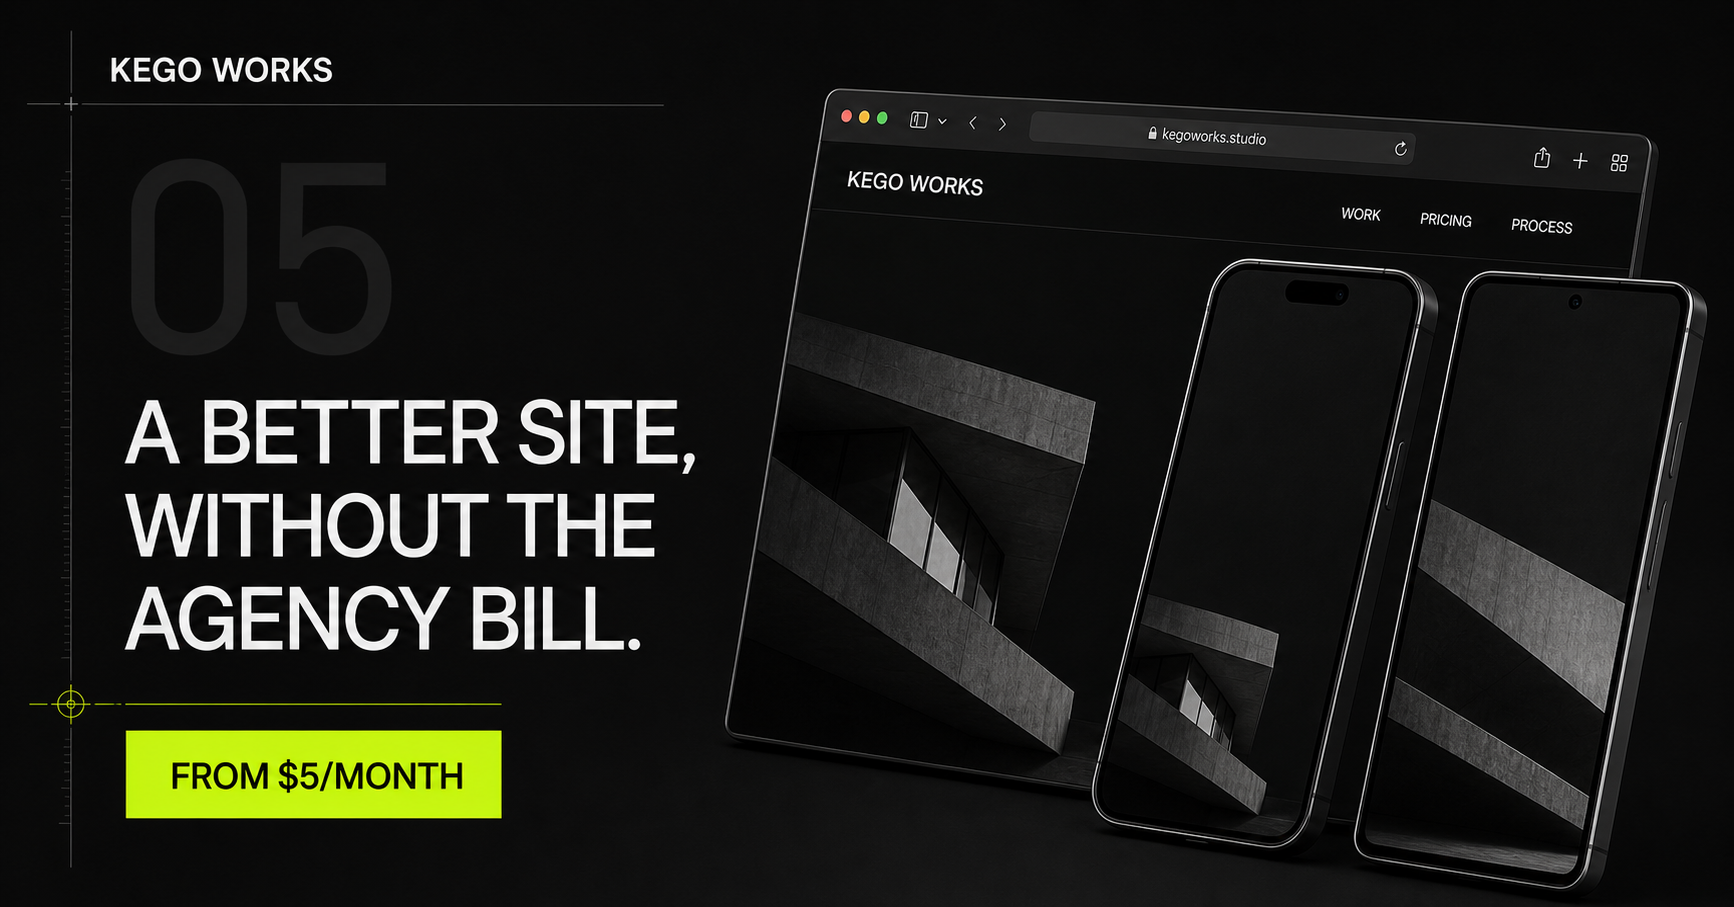
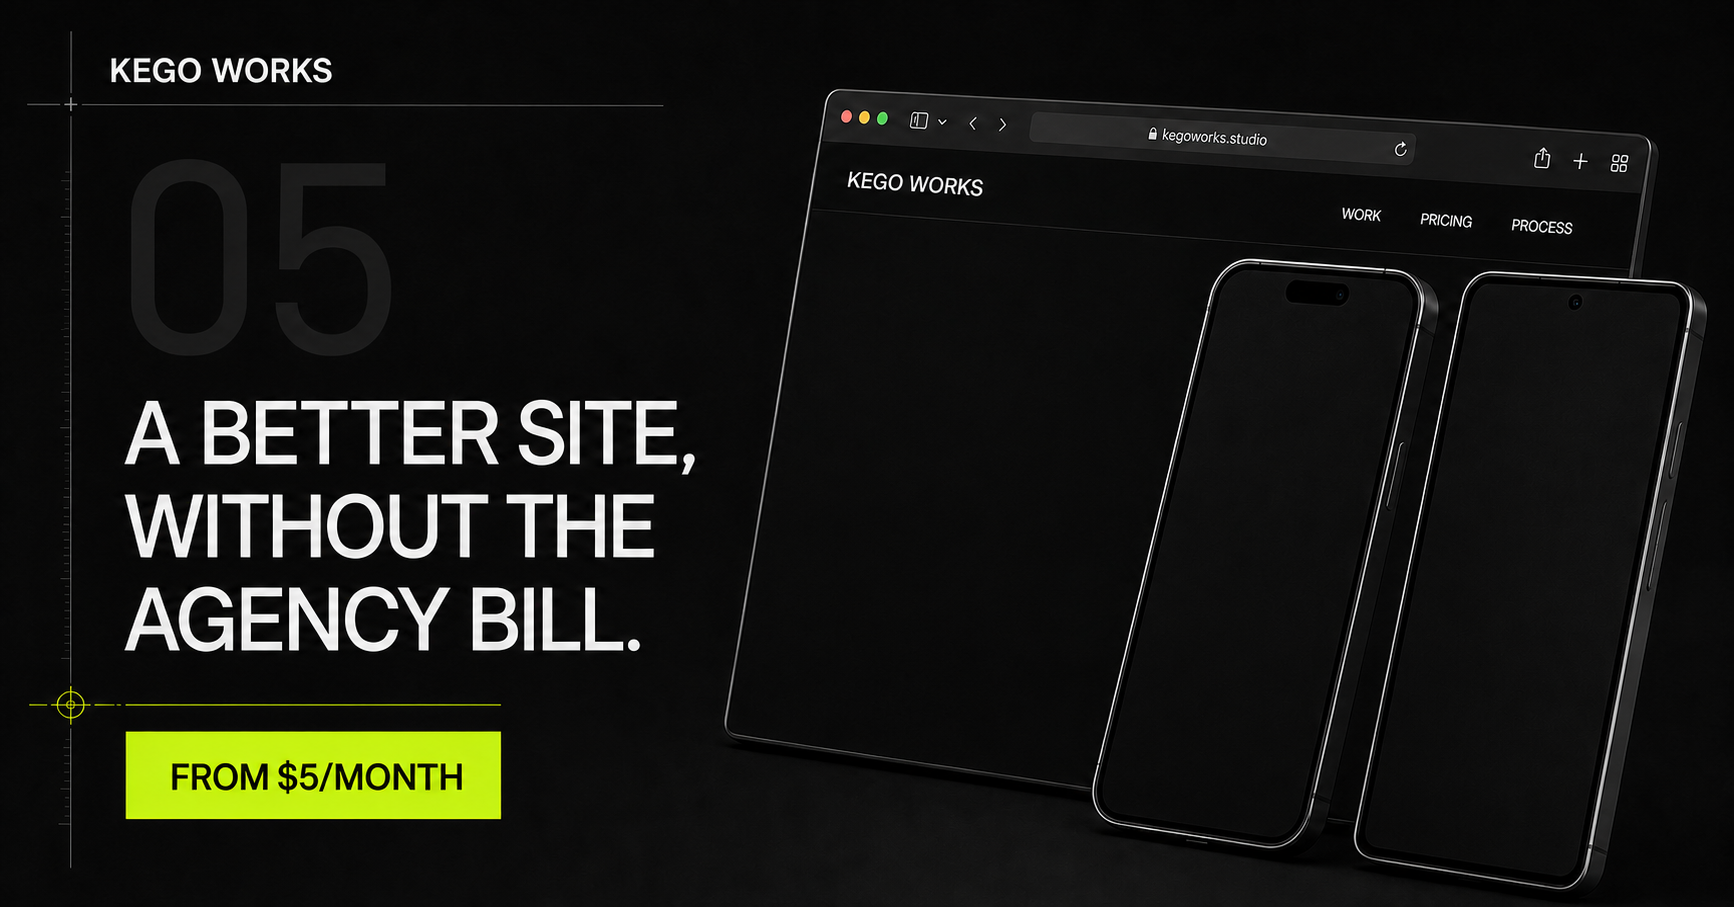
Remove unfinished device artwork

diff --git a/app/page.tsx b/app/page.tsx
@@ -39,16 +39,6 @@ function SectionRail({ active }: { active: string }) {
   );
 }
 
-function ArchitecturePanel() {
-  return (
-    <div className="architecture" aria-hidden="true">
-      <span className="beam beam-one" />
-      <span className="beam beam-two" />
-      <span className="beam beam-three" />
-    </div>
-  );
-}
-
 function Phone({ variant = "ios" }: { variant?: "ios" | "android" }) {
   return (
     <div className={`phone phone-${variant}`} aria-hidden="true">
@@ -62,7 +52,6 @@ function Phone({ variant = "ios" }: { variant?: "ios" | "android" }) {
         {variant === "ios" ? <>Smooth<br />by design.<br /><em>Fast by<br />default.</em></> : <>Made for<br />people.<br /><em>Ready to<br />grow.</em></>}
       </p>
       <p className="screen-copy">Thoughtful products that feel fast and stay simple.</p>
-      <ArchitecturePanel />
     </div>
   );
 }
@@ -80,7 +69,6 @@ function BrowserFrame() {
         <p className="browser-title">Fast websites<br />and apps.<br /><em>Built to last.</em></p>
         <p className="browser-copy">Clean code. Thoughtful design.<br />Shipped fast.</p>
         <span className="mini-button">START A PROJECT</span>
-        <ArchitecturePanel />
       </div>
     </div>
   );

diff --git a/app/globals.css b/app/globals.css
@@ -98,14 +98,6 @@ button, a { -webkit-tap-highlight-color: transparent; }
 .phone .screen-label { margin: 30px 16px 8px; }
 .phone .screen-title { padding: 0 16px; font-size: clamp(1rem, 1.55vw, 1.7rem); }
 .phone .screen-copy { max-width: 92%; padding: 0 16px; font-size: .45rem; line-height: 1.25; }
-.architecture { position: absolute; inset: auto 0 0; height: 33%; overflow: hidden; background: linear-gradient(140deg, #181b1a, #060706); }
-.beam { position: absolute; display: block; height: 28px; background: linear-gradient(90deg, #252827, #a2a49f 45%, #272a29); transform: rotate(-46deg); }
-.beam-one { width: 130%; left: -35%; top: 10%; }
-.beam-two { width: 100%; left: 20%; top: 45%; }
-.beam-three { width: 80%; left: 45%; top: 75%; }
-.browser-content > .architecture { height: 19%; }
-.phone > .architecture { height: 20%; }
-
 .ways { display: grid; grid-template-columns: 45% 55%; align-content: center; padding-top: 80px; }
 .ways-title h2, .pricing-header h2 { margin: 0; font-size: clamp(4rem, 7.4vw, 8.6rem); line-height: .9; letter-spacing: -.07em; font-weight: 430; }
 .ways-title h2 span { color: var(--acid); }
